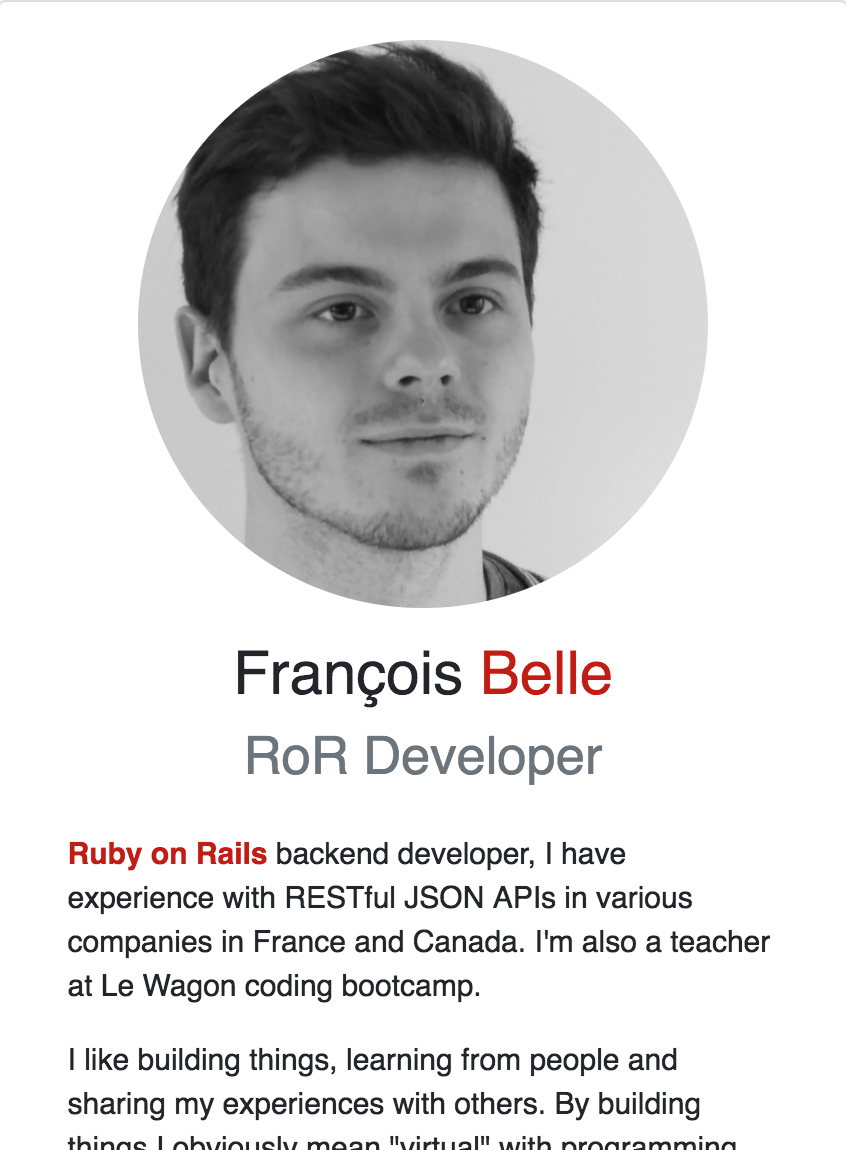
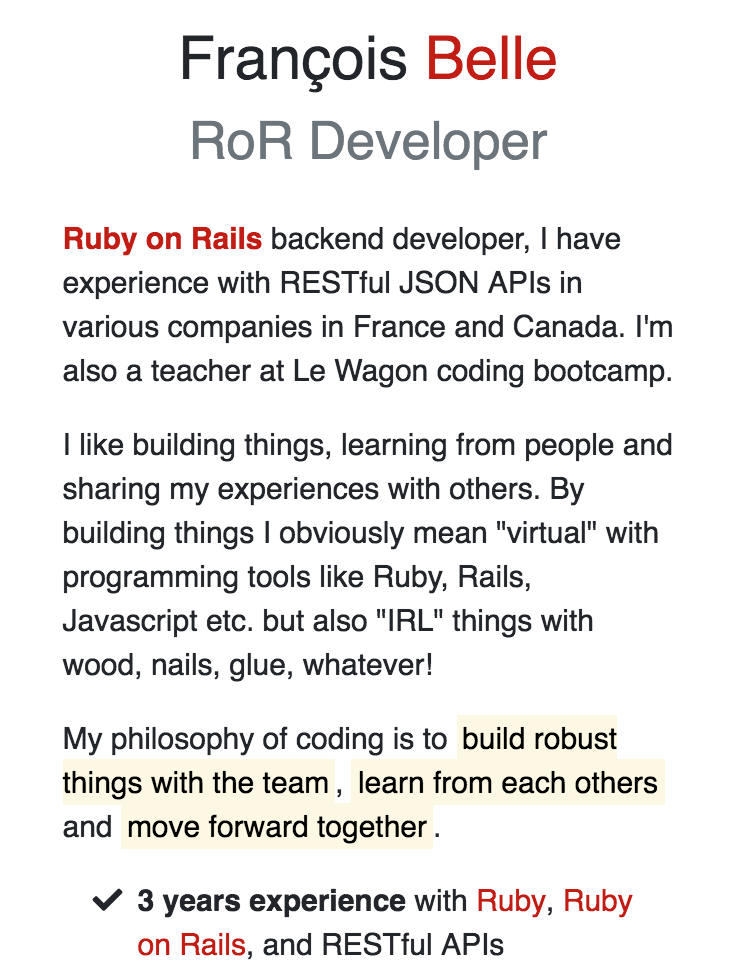
Build 12 - Added collapsable text and quotation

diff --git a/index.html b/index.html
@@ -44,6 +44,8 @@
         <ul class="fa-ul">
           <li><i class="fa-li fa fa-check"></i><strong>3 years experience</strong> with <span class="color-ruby">Ruby</span>, <span class="color-ruby">Ruby on Rails</span>, and RESTful APIs</li>
           <li><i class="fa-li fa fa-check"></i><strong>2 years experience</strong> with agile methods</li>
+          <li><i class="fa-li fa fa-check"></i>CLI, Git, Rspec, CI</li>
+          <li><i class="fa-li fa fa-check"></i>Technical reviews, pair programming</li>
           <li><i class="fa-li fa fa-check"></i>Strong team spirit</li>
         </ul>
       </p>
@@ -57,9 +59,9 @@
       <p class="mb-0">
         Perfection is achieved, not when there is nothing more to add, but when there is nothing left to take away.
       </p>
-      <footer class="blockquote-footer">
-        Antoine de Saint-Exupery
-      </footer>
+        <footer class="blockquote-footer">
+          Antoine de Saint-Exupery
+        </footer>
     </blockquote>
   </div>
 
@@ -78,6 +80,7 @@
     <div class="row my-3">
       <div class="col-md-2 text-center">
         <a href="https://www.lewagon.com/"><img src="/images/logos/le_wagon.png" alt="Le Wagon" class="rounded mb-3 my-md-3" style="width: 6em;" /></a>
+        <h4><a href="https://www.lewagon.com/" class="badge badge-light">Le Wagon</a></h4>
       </div>
       <div class="col-md-10">
         <p>At <strong>Le Wagon</strong> coding bootcamp, I can help people who want to make a big change in their lives.</p>
@@ -88,6 +91,7 @@
     <div class="row my-3">
       <div class="col-md-2 text-center">
         <a href="https://www.koolicar.com/"><img src="/images/logos/koolicar.png" alt="Koolicar" class="rounded mb-3 my-md-3" style="width: 6em;" /></a>
+        <h4><a href="https://www.koolicar.com/" class="badge badge-light">Koolicar</a></h4>
       </div>
       <div class="col-md-10">
         <p><strong>Koolicar</strong> is a P2P car-sharing service that allows individual car owners to rent out their cars for precise slots of time.</p>
@@ -99,14 +103,18 @@
     <div class="row my-3">
       <div class="col-md-2 text-center">
         <a href="https://www.tilkee.com/"><img src="/images/logos/tilkee.png" alt="Tilkee" class="rounded mb-3 my-md-3" style="width: 6em;" /></a>
+        <h4><a href="https://www.tilkee.com/" class="badge badge-light">Tilkee</a></h4>
       </div>
       <div class="col-md-10">
         <p><strong>Tilkee</strong> is an innovative Saas solution for proposals follow-up & sales process tracking. It allows you to know how, when and where your commercial bid is read.</p>
-        <p>I have found my place in this startup as a Ruby on Rails developer (sometimes front-end JS/AngularJS). By beeing Agiles, we use the tools that are suitable for our environment like Slack, Asana, Git, etc.</p>
-        <p>By growing as an apprentice, I learn a lot about working in a team and by my own too. I can see the result of my tasks everyday as soon as I have done them thanks to frequent deployments into production. Moreover, I am improving as much in development than in RESTful API and global practices.</p>
-          <p class="text-secondary">
-            François has perfectly fulfilled the various missions entrusted to him: rigorous, efficient, motivated, perfectly integrated into the team, he has been able to bring his skills and evolve technically in order to increase the added value of our product.<br> All these reasons make me believe that François Belle will be a driving force of your company in which he will be integrated within work teams but also within the life of the company. &#8212; <span class="font-italic">Christophe Brun - Lead Developer @Tilkee</span>
-          </p>
+        <p>As a Ruby on Rails apprentice, I've learned a lot about teamwork and working independently. I was able to see the result of my tasks everyday as soon as I had done them thanks to continuous integration.</p>
+          <a class="text-dark" data-toggle="collapse" href="#collapseReco" aria-expanded="false" aria-controls="collapseReco">
+            <u><span class="font-italic">Christophe Brun - Lead Developer @Tilkee</span> recommended me</u>
+          </a>
+
+          <div class="collapse text-secondary" id="collapseReco">
+            François has perfectly fulfilled the various missions entrusted to him: rigorous, efficient, motivated, perfectly integrated into the team, he has been able to bring his skills and evolve technically in order to increase the added value of our product.<br> All these reasons make me believe that François Belle will be a driving force of your company in which he will be integrated within work teams but also within the life of the company.
+          </div>
         </blockquote>
       </div>
     </div>
@@ -115,17 +123,14 @@
 
 <div class="row mx-auto col-lg-6 py-3">
   <div class="col-12 col-md-4 my-auto text-right">
-    <span class="display-4">Passion</span>
+    <span class="display-4">Humility</span>
   </div>
 
   <div class="col-12 col-md-8 border-left border-secondary">
     <blockquote class="blockquote mb-0">
       <p class="mb-0">
-        Creating a life that reflects your values and satisfies your soul is a rare achievement. <small><a href="https://www.goodreads.com/quotes/808267-creating-a-life-that-reflects-your-values-and-satisfies-your" target="blank">Read more</a></small>
+        Strong adherent and advocate of <i>Jerry Weinberg</i>'s <a href="https://blog.codinghorror.com/the-ten-commandments-of-egoless-programming/" target="blank">egoless programming concepts</a>
       </p>
-      <footer class="blockquote-footer">
-        Bill Watterson
-      </footer>
     </blockquote>
   </div>
 </div>
@@ -135,6 +140,35 @@
 <div class="card shadow mx-auto col-lg-6 my-md-3">
   <div class="card-body">
     <h4 class="card-title mb-0">Side projects</h4>
+    <hr>
+    <div class="row my-3">
+      <div class="col-md-6 text-center">
+        <div class="carousel slide" data-ride="carousel">
+  <div class="carousel-inner">
+    <div class="carousel-item active">
+      <a href="https://bellef.github.io">
+        <img src="/images/projects/bellef_middleman_1.png" alt="Personal website slide 1" class="rounded d-block w-100" />
+      </a>
+    </div>
+    <div class="carousel-item ">
+      <a href="https://bellef.github.io">
+        <img src="/images/projects/bellef_middleman_2.png" alt="Personal website slide 2" class="rounded d-block w-100" />
+      </a>
+    </div>
+  </div>
+</div>
+
+      </div>
+      <div class="col-md-6">
+        <h4 class="mt-3">
+          <a href="https://bellef.github.io">This personal website</a>
+        </h4>
+
+        <p>When I wanted to create a new personal website, I had to find a way to create an easily managed static website. That's why I chose to build it with Middleman.</p>
+        <p>Middleman is a static website generator using all the modern tools you need: ERB, Saas, CoffeeScript. etc. Read more about Middleman <a href="https://github.com/middleman/middleman#why-middleman">here</a></p>
+        <p>Built with <strong>Middleman</strong>: <a href="https://github.com/bellef/bellef.github.io-middleman" class="badge badge-dark"><i class="fab fa-github"></i> sources</a>.</p>
+      </div>
+    </div>
     <hr>
     <div class="row my-3">
       <div class="col-md-6 text-center">
@@ -157,7 +191,7 @@
         <p>I've always been struggling with all my Chrome bookmarks: hundreds of them but no time to sort them so they all finish in the same "Devtools" or "Watch later" folder. I had to find an efficient way to search through my bookmarks smoothly and at the right time.</p>
         <p>This extension shows the bookmarks that match your search keywords at the top of the Google results</p>
         <p>Type your keywords in Google search bar and the matching bookmarks will be displayed at the top of the results.</p>
-        <p>Built with <strong>JS / HTML / CSS</strong>: <a href="https://github.com/bellef/bookmarks_finder"><i class="fab fa-github"></i> repository</a>.</p>
+        <p>Built with <strong>JS / HTML / CSS</strong>: <a href="https://github.com/bellef/bookmarks_finder" class="badge badge-dark"><i class="fab fa-github"></i> sources</a>.</p>
       </div>
     </div>
     <hr>
@@ -191,40 +225,29 @@
 
         <p>When I wanted to immigrate to Canada, I had to check immigration quotas several times a day on <a href="http://www.cic.gc.ca/francais/travailler/eic/selection.asp">this site</a>. At least 5 clicks are needed to see the information that interests me.</p>
         <p>Then I coded a scraper that displays the information on the different visas in clear and simple graphics.</p>
-        <p>Built with <strong>Charts.js / HTML / CSS</strong>: <a href="https://github.com/bellef/goto_canada"><i class="fab fa-github"></i> repository</a>.</p>
-      </div>
-    </div>
-    <hr>
-    <div class="row my-3">
-      <div class="col-md-6 text-center">
-        <div class="carousel slide" data-ride="carousel">
-  <div class="carousel-inner">
-    <div class="carousel-item active">
-      <a href="https://bellef.github.io">
-        <img src="/images/projects/bellef_middleman_1.png" alt="Personal website slide 1" class="rounded d-block w-100" />
-      </a>
-    </div>
-    <div class="carousel-item ">
-      <a href="https://bellef.github.io">
-        <img src="/images/projects/bellef_middleman_2.png" alt="Personal website slide 2" class="rounded d-block w-100" />
-      </a>
-    </div>
-  </div>
-</div>
-
-      </div>
-      <div class="col-md-6">
-        <h4 class="mt-3">
-          <a href="https://bellef.github.io">This personal website</a>
-        </h4>
-
-        <p>When I wanted to create a new personal website, I had to find a way to create an easily managed static website. That's why I chose to build it with Middleman.</p>
-        <p>Middleman is a static website generator using all the modern tools you need: ERB, Saas, CoffeeScript. etc. Read more about Middleman <a href="https://github.com/middleman/middleman#why-middleman">here</a></p>
-        <p>Built with <strong>Middleman</strong>: <a href="https://github.com/bellef/bellef.github.io-middleman"><i class="fab fa-github"></i> repository</a>.</p>
+        <p>Built with <strong>Charts.js / HTML / CSS</strong>: <a href="https://github.com/bellef/goto_canada" class="badge badge-dark"><i class="fab fa-github"></i> sources</a>.</p>
       </div>
     </div>
   </div>
 </div>
+
+<div class="row mx-auto col-lg-6 py-3">
+  <div class="col-12 col-md-8 text-right border-right border-secondary">
+    <blockquote class="blockquote mb-0">
+      <p class="mb-0">
+        Creating a life that reflects your values and satisfies your soul is a rare achievement. <small><a href="https://www.goodreads.com/quotes/808267-creating-a-life-that-reflects-your-values-and-satisfies-your" target="blank">Read more</a></small>
+      </p>
+        <footer class="blockquote-footer">
+          Bill Watterson
+        </footer>
+    </blockquote>
+  </div>
+
+  <div class="col-12 col-md-4 my-auto">
+    <span class="display-4">Passion</span>
+  </div>
+</div>
+
 
 <!-- SIDE PROJECTS -->
 <div class="card shadow mx-auto col-lg-6 my-md-3">
